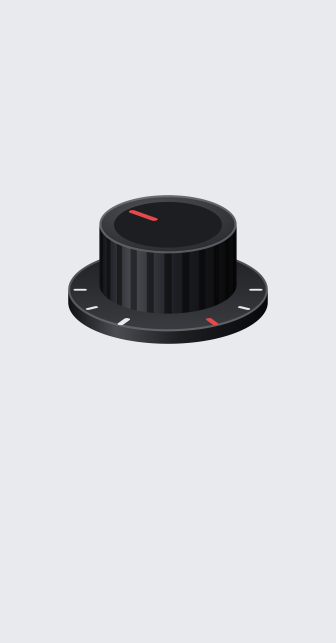
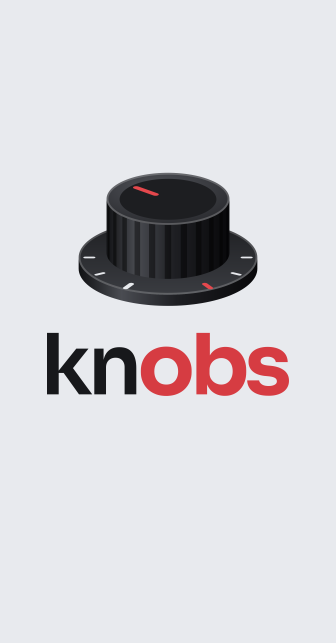
feat: enlarge the lockup's wordmark and put a stacked lockup on the installer
The wordmark is 22% larger and 38 units right of the knob, in the lockups and the README. The installer's side panel shows the knob above the wordmark.

Changed region(s): [[0.119, 0.2488, 0.8631, 0.6221]]

diff --git a/assets/README.md b/assets/README.md
@@ -1,13 +1,14 @@
 # Logo
 
-The knob mark, the app icon and the horizontal lockup. The SVGs are the masters. The wordmark in them is outlined, so they need no fonts.
+The knob mark, the app icon and the lockups. The SVGs are the masters. The wordmark in them is outlined, so they need no fonts.
 
 - `knobs-mark.svg`: the mark alone.
 - `knobs-app-icon.svg`: the app icon: the mark alone, scaled up to fill a square. It has no tile (decided 2026-10-05).
 - `knobs.ico`: the app icon for Windows, for the tray app's exe, its tray icon, its windows and its notifications. It has the small (16 px) and large (32 px) icons at every display scale from 100% to 300%: 16, 20, 24, 28, 32, 36, 40, 48, 56, 64, 72, 80 and 96 px, and 256. `tools/render-icon.ps1 -Svg assets\knobs-app-icon.svg -Out assets\knobs.ico` makes it: headless Edge renders the SVG at 8 times each size, and each 8×8 block is averaged into a pixel, for smooth edges. Sizes below 256 are 32-bit bitmaps, and 256 is a PNG.
 - `knobs-lockup-horizontal-dark.svg`: mark and wordmark with dark text, for light backgrounds.
 - `knobs-lockup-horizontal-light.svg`: mark and wordmark with light text, for dark backgrounds.
-- `installer/`: the installer's images, at each size Inno Setup asks for from 100% to 250% display scaling. `wizard-<width>.png` is the mark centered on `#e8eaee`, for the "Completing setup" page, and `small-<size>.png` the app icon on a transparent ground, top right on the other pages. `tools/render-installer-images.ps1` makes them from the SVGs, as `render-icon.ps1` makes `knobs.ico`.
+- `knobs-lockup-stacked-dark.svg` and `knobs-lockup-stacked-light.svg`: the mark above the wordmark, for tall spaces such as the installer's side panel. The wordmark is 1.3 times the knob's width, 24 units below it.
+- `installer/`: the installer's images, at each size Inno Setup asks for from 100% to 250% display scaling. `wizard-<width>.png` is the stacked lockup centered on `#e8eaee`, for the "Completing setup" page, and `small-<size>.png` the app icon on a transparent ground, top right on the other pages. `tools/render-installer-images.ps1` makes them from the SVGs, as `render-icon.ps1` makes `knobs.ico`.
 
 ## Colors
 
@@ -23,6 +24,7 @@ The knob is the same everywhere: a dark body, a `#e5484d` pointer and `#e8eaee` 
 - Keep clear space around the mark at least as long as its pointer. The app icon is the exception: it fills its square.
 - Don't show the mark smaller than 32 px. The app icon's smaller sizes are the exception.
 - Don't recolor, rotate or stretch the knob.
+- In the horizontal lockup, the wordmark is about 60% of the knob's height, centered on it, and starts 38 units right of the knob (decided 2026-10-07, up from 49% and 29 units).
 - The wordmark is Sora: "kn" in SemiBold 600 and "obs" in Bold 700, tracked −0.055em.
 - The mark is original artwork. Where it appears next to the OBS name or logo, check the OBS Project's trademark guidelines.
 

diff --git a/PRODUCT.md b/PRODUCT.md
@@ -46,7 +46,7 @@ knobs gives OBS's exact mic sound without OBS. It loads the filter binaries from
 
 - **Name:** "knobs", all lowercase, even at the start of a sentence, as in the audio kind. It was knOBS until 2026-10-05. Code keeps it in one constant (`KNOBS_DISPLAY_NAME`), and user-facing strings use that constant.
 - **Voice:** plain and exact, like the README. Say what happened and what to do, in everyday words. Short sentences, no hype, no exclamation marks, no jokes. Give numbers when they help ("88 ms").
-- **Logo:** the knob mark (a dark knob with a red pointer, original artwork), the app icon and the horizontal lockup, in `assets/`. Don't recolor, rotate or stretch the knob. Usage rules are in `assets/README.md`.
+- **Logo:** the knob mark (a dark knob with a red pointer, original artwork), the app icon, and the horizontal and stacked lockups, in `assets/`. Don't recolor, rotate or stretch the knob. Usage rules are in `assets/README.md`.
 - **Logo colors:** ink `#17181b` on light and `#e8eaee` on dark. Red `#d63c42` on light and `#e5484d` on dark, for the pointer and "obs" in the wordmark. The knob's ticks are `#e8eaee`, a light tone of the knob's cool graphite. No cream (decided 2026-10-05). The app icon is the knob alone, with no tile (decided 2026-10-05).
 - **Red "obs" in the wordmark:** kept on purpose (decided 2026-10-05), although the rename to knobs dropped "OBS" from the name. If the OBS team objects, revisit it, as with the name.
 - **Tray badges:** discs in the logo's colors: a white "!" on the red `#e5484d` and white pause bars on the graphite `#4a4c52`, 7/16 of the icon (decided 2026-10-07, replacing Windows 11's yellow and gray).

diff --git a/README.md b/README.md
@@ -1,7 +1,7 @@
 <h1 align="center">
   <picture>
     <source media="(prefers-color-scheme: dark)" srcset="assets/knobs-lockup-horizontal-light.svg">
-    <img src="assets/knobs-lockup-horizontal-dark.svg" alt="knobs" width="340">
+    <img src="assets/knobs-lockup-horizontal-dark.svg" alt="knobs" width="388">
   </picture>
 </h1>
 
